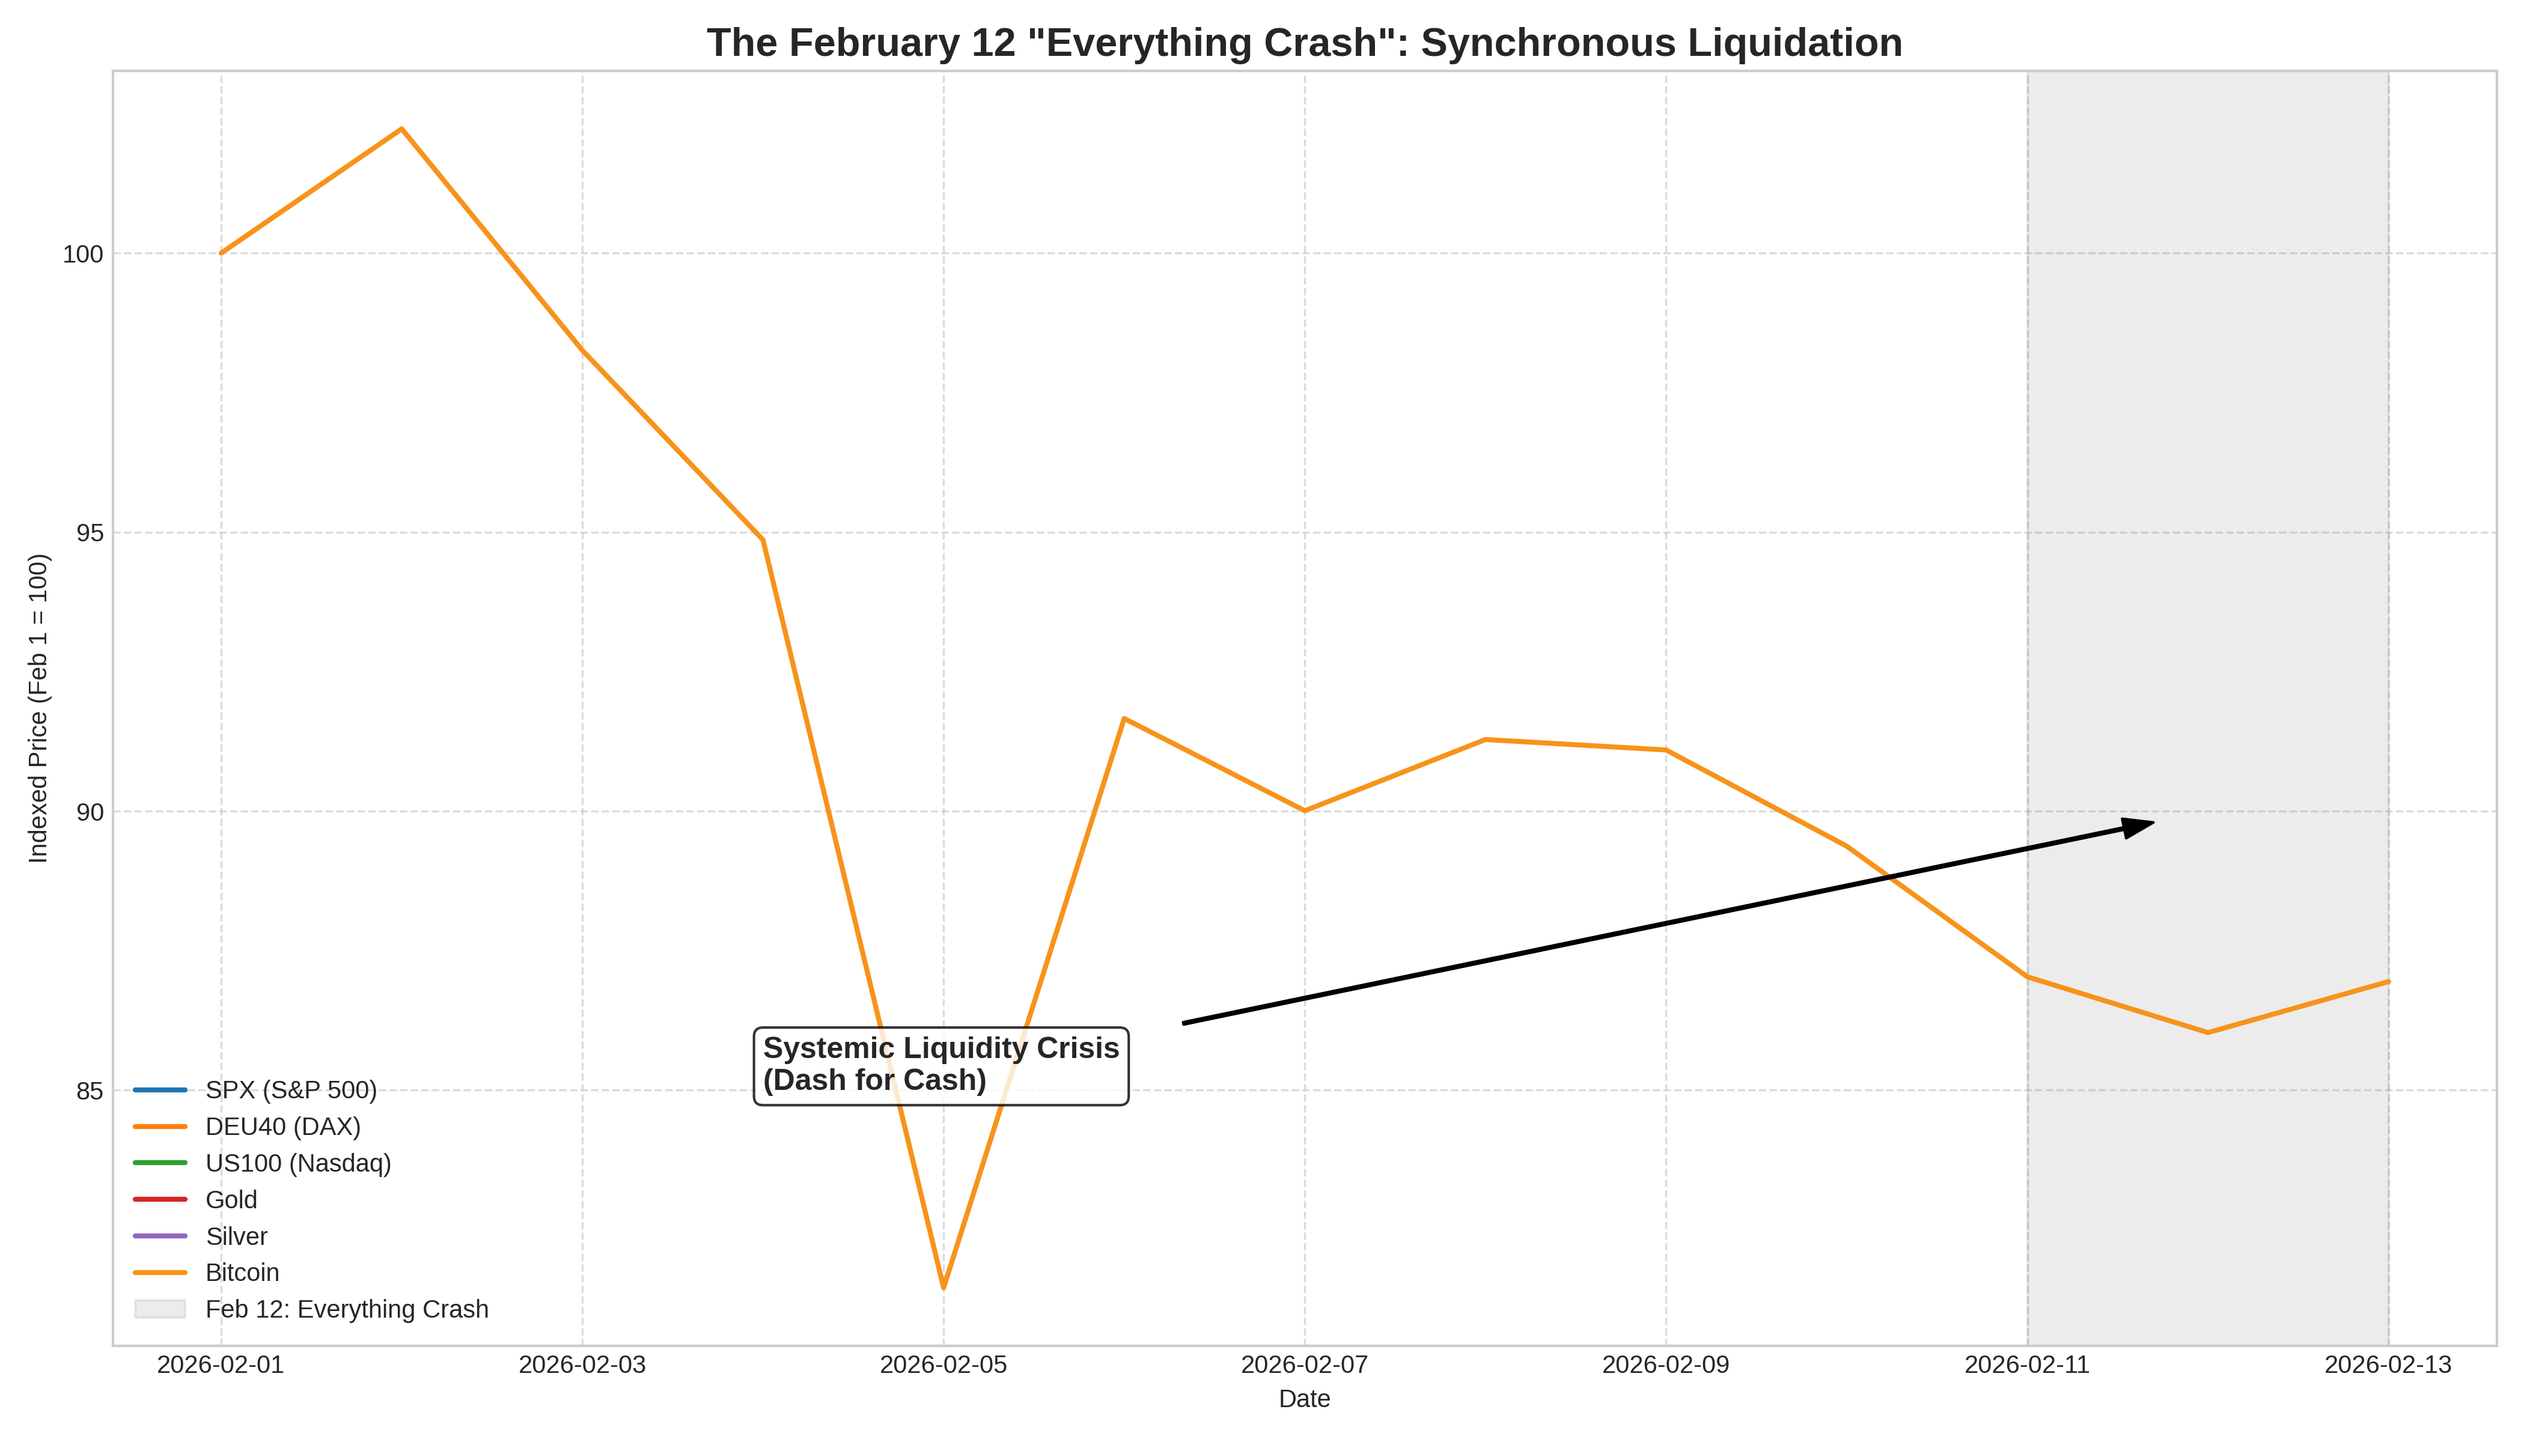
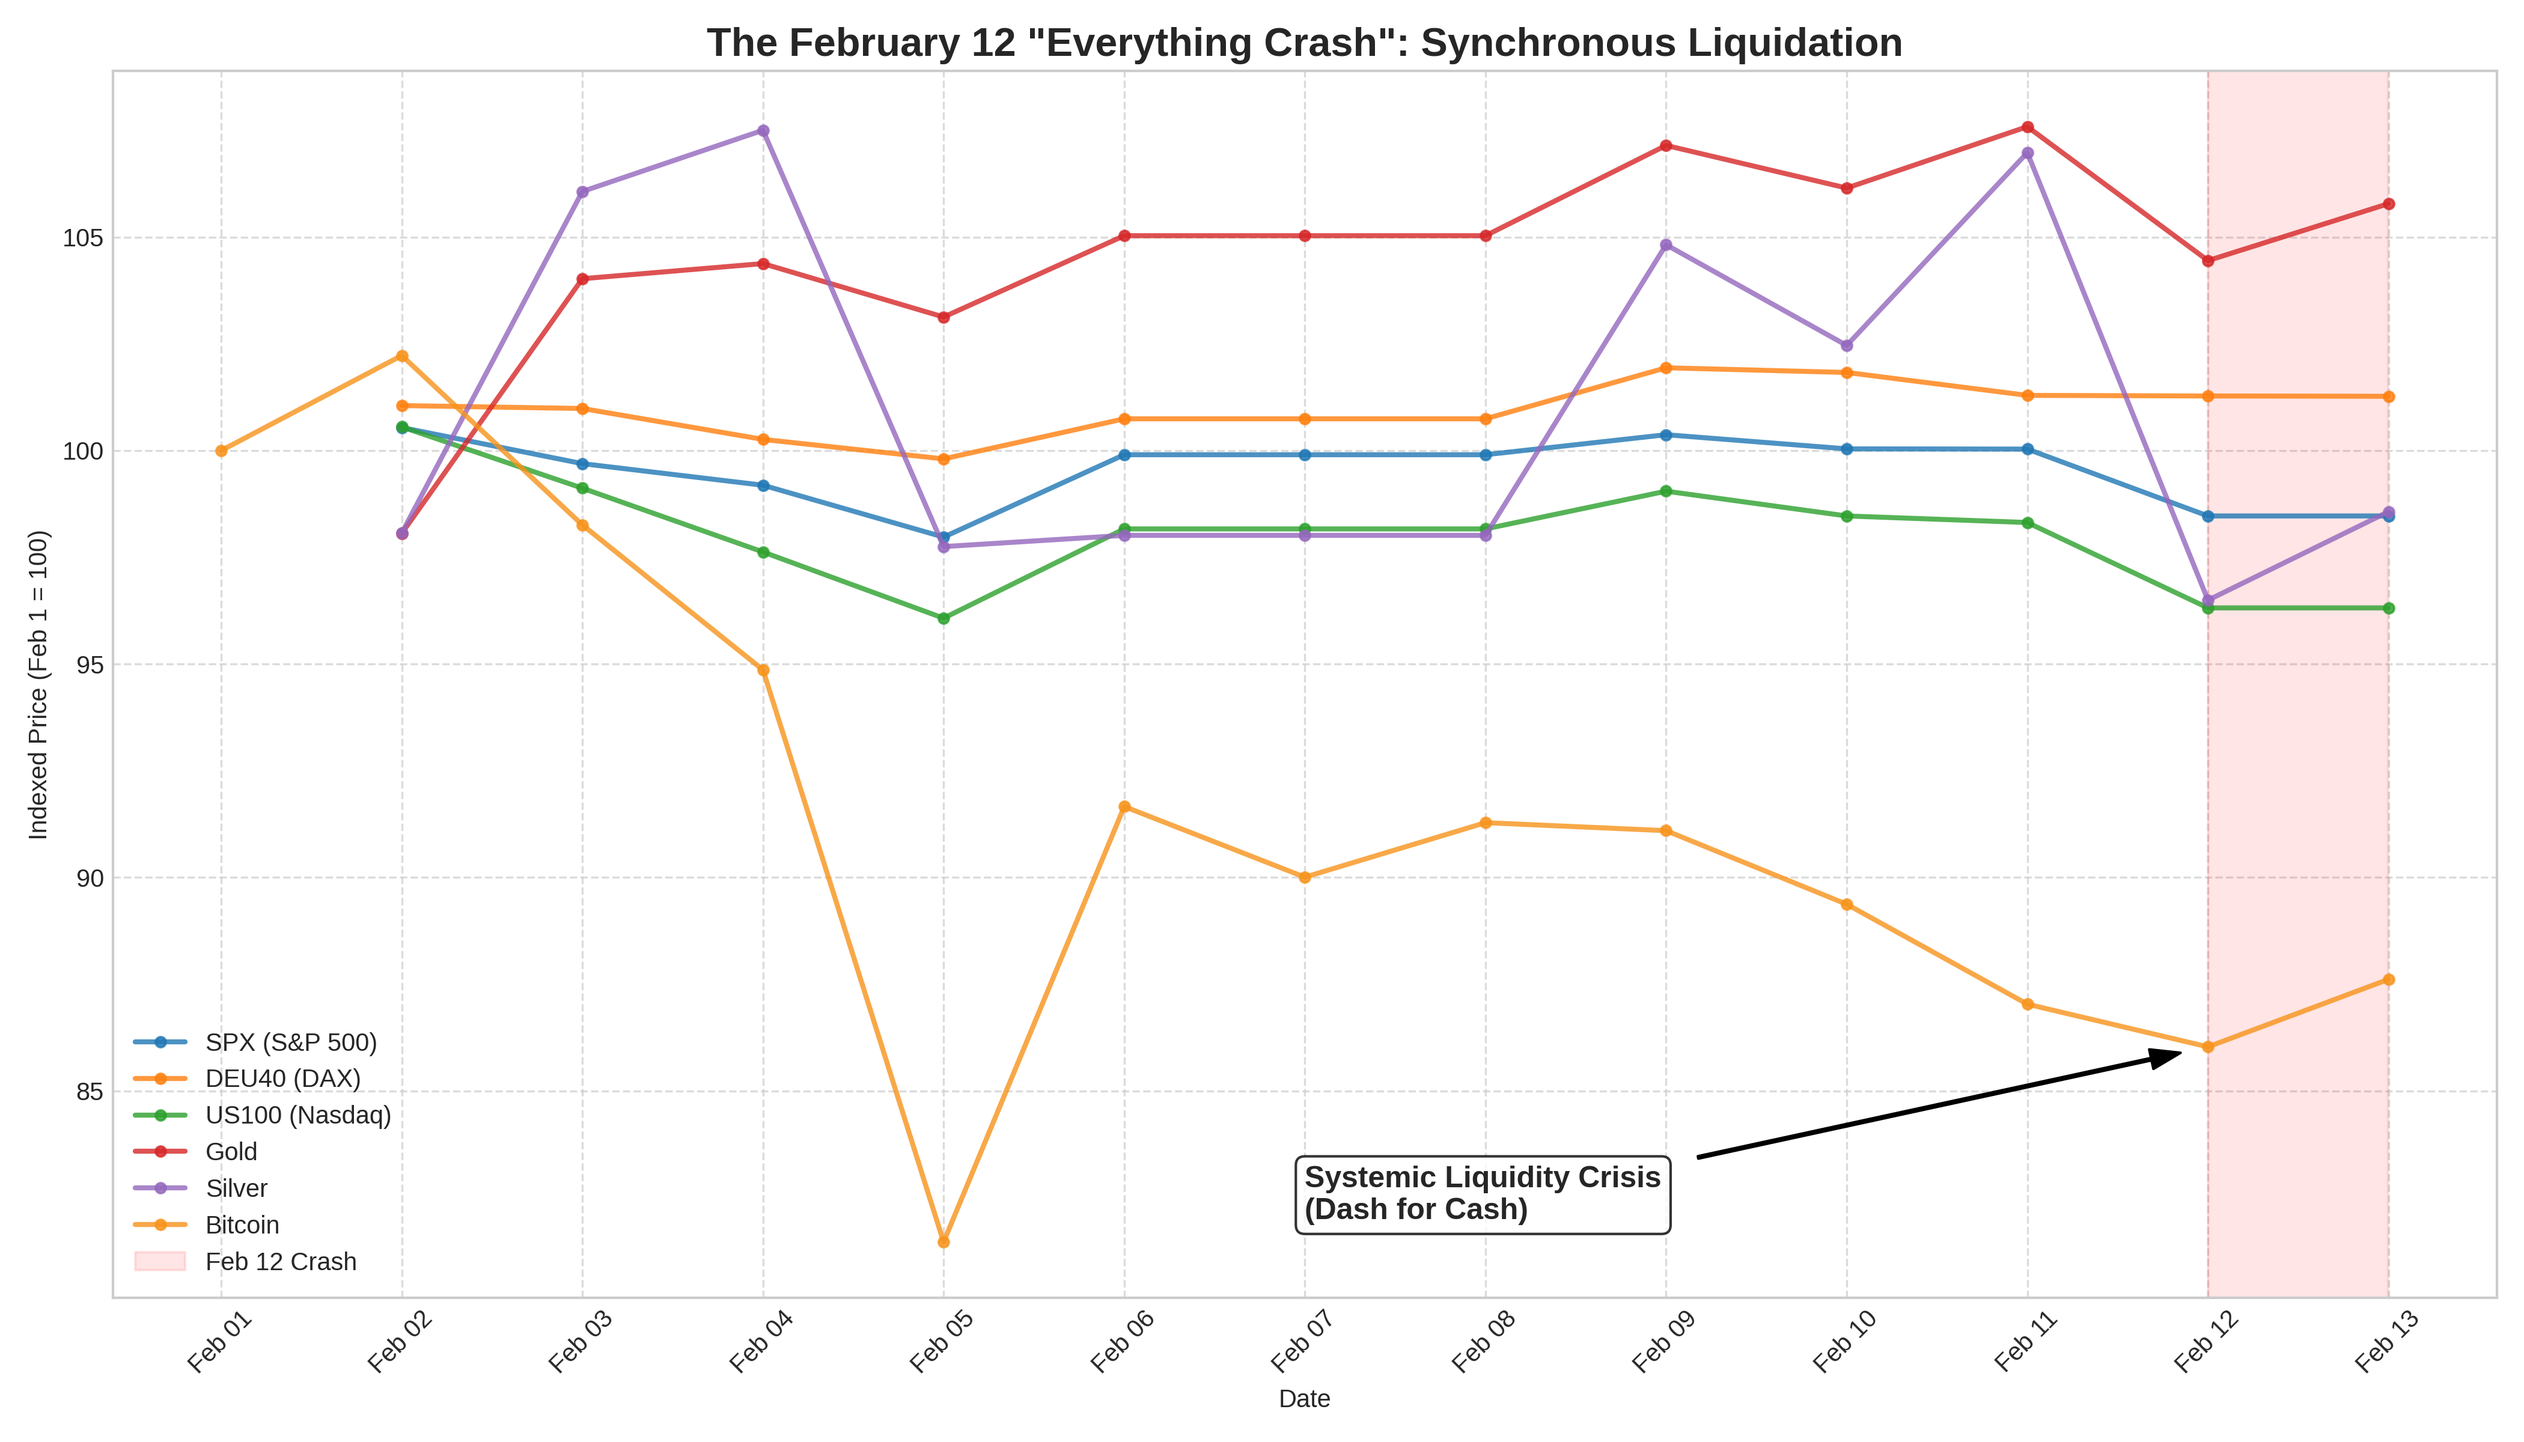
feat: Improve 'Everything Crash' chart normalization to Feb 1st and enhance visualization with daily X-axis formatting and updated crash highlights.

diff --git a/BitcoinCrash/generate_charts_everything.py b/BitcoinCrash/generate_charts_everything.py
@@ -18,11 +18,11 @@ tickers = {
     "BTC-USD": "Bitcoin"
 }
 
-start_date = "2026-02-01"
+start_date = "2026-01-29" # Extended to capture baseline for Feb 1
 end_date = "2026-02-14"
 
 def fetch_data():
-    print("Fetching 'Everything Crash' data...")
+    print("Fetching synchronized 'Everything Crash' data...")
     data = {}
     for symbol, name in tickers.items():
         df = yf.download(symbol, start=start_date, end=end_date)
@@ -35,25 +35,37 @@ def fetch_data():
 def generate_everything_chart(df):
     plt.style.use('seaborn-v0_8-whitegrid')
     
-    # Normalize to Feb 1st
-    norm_df = (df / df.iloc[0]) * 100
+    # Baseline: The value on or immediately before Feb 1
+    # We bfill to get the last known price for traditionally closed markets on Sunday Feb 1
+    feb_data = df.loc['2026-02-01':]
+    pre_feb_data = df.loc[:'2026-02-01'].ffill().iloc[-1]
+    
+    norm_df = (feb_data / pre_feb_data) * 100
+    plot_df = norm_df.ffill()
+    
+    import matplotlib.dates as mdates
     
     plt.figure(figsize=(14, 8))
     
     colors = ['#1f77b4', '#ff7f0e', '#2ca02c', '#d62728', '#9467bd', '#F7931A']
-    for i, column in enumerate(norm_df.columns):
-        plt.plot(norm_df.index, norm_df[column], label=column, linewidth=2, color=colors[i])
+    for i, column in enumerate(plot_df.columns):
+        plt.plot(plot_df.index, plot_df[column], label=column, linewidth=2, color=colors[i], marker='o', markersize=4, alpha=0.8)
         
-    # Highlight Feb 12
-    plt.axvspan(datetime(2026, 2, 11), datetime(2026, 2, 13), color='gray', alpha=0.15, label='Feb 12: Everything Crash')
+    # Highlight Feb 12 (Thursday)
+    plt.axvspan(datetime(2026, 2, 12), datetime(2026, 2, 12, 23, 59), color='red', alpha=0.1, label='Feb 12 Crash')
     
     # Specific annotation for the crash
     crash_date = datetime(2026, 2, 12)
     plt.annotate('Systemic Liquidity Crisis\n(Dash for Cash)', 
-                 xy=(crash_date, 90), 
-                 xytext=(datetime(2026, 2, 4), 85),
+                 xy=(crash_date, plot_df.loc['2026-02-12'].min()), 
+                 xytext=(datetime(2026, 2, 7), 82),
                  arrowprops=dict(facecolor='black', shrink=0.05, width=1, headwidth=8),
                  fontsize=12, fontweight='bold', bbox=dict(boxstyle="round,pad=0.3", fc="white", ec="black", alpha=0.8))
+
+    # X-Axis formatting for daily precision
+    plt.gca().xaxis.set_major_locator(mdates.DayLocator())
+    plt.gca().xaxis.set_major_formatter(mdates.DateFormatter('%b %d'))
+    plt.xticks(rotation=45)
 
     plt.title('The February 12 "Everything Crash": Synchronous Liquidation', fontsize=16, fontweight='bold')
     plt.ylabel('Indexed Price (Feb 1 = 100)')
